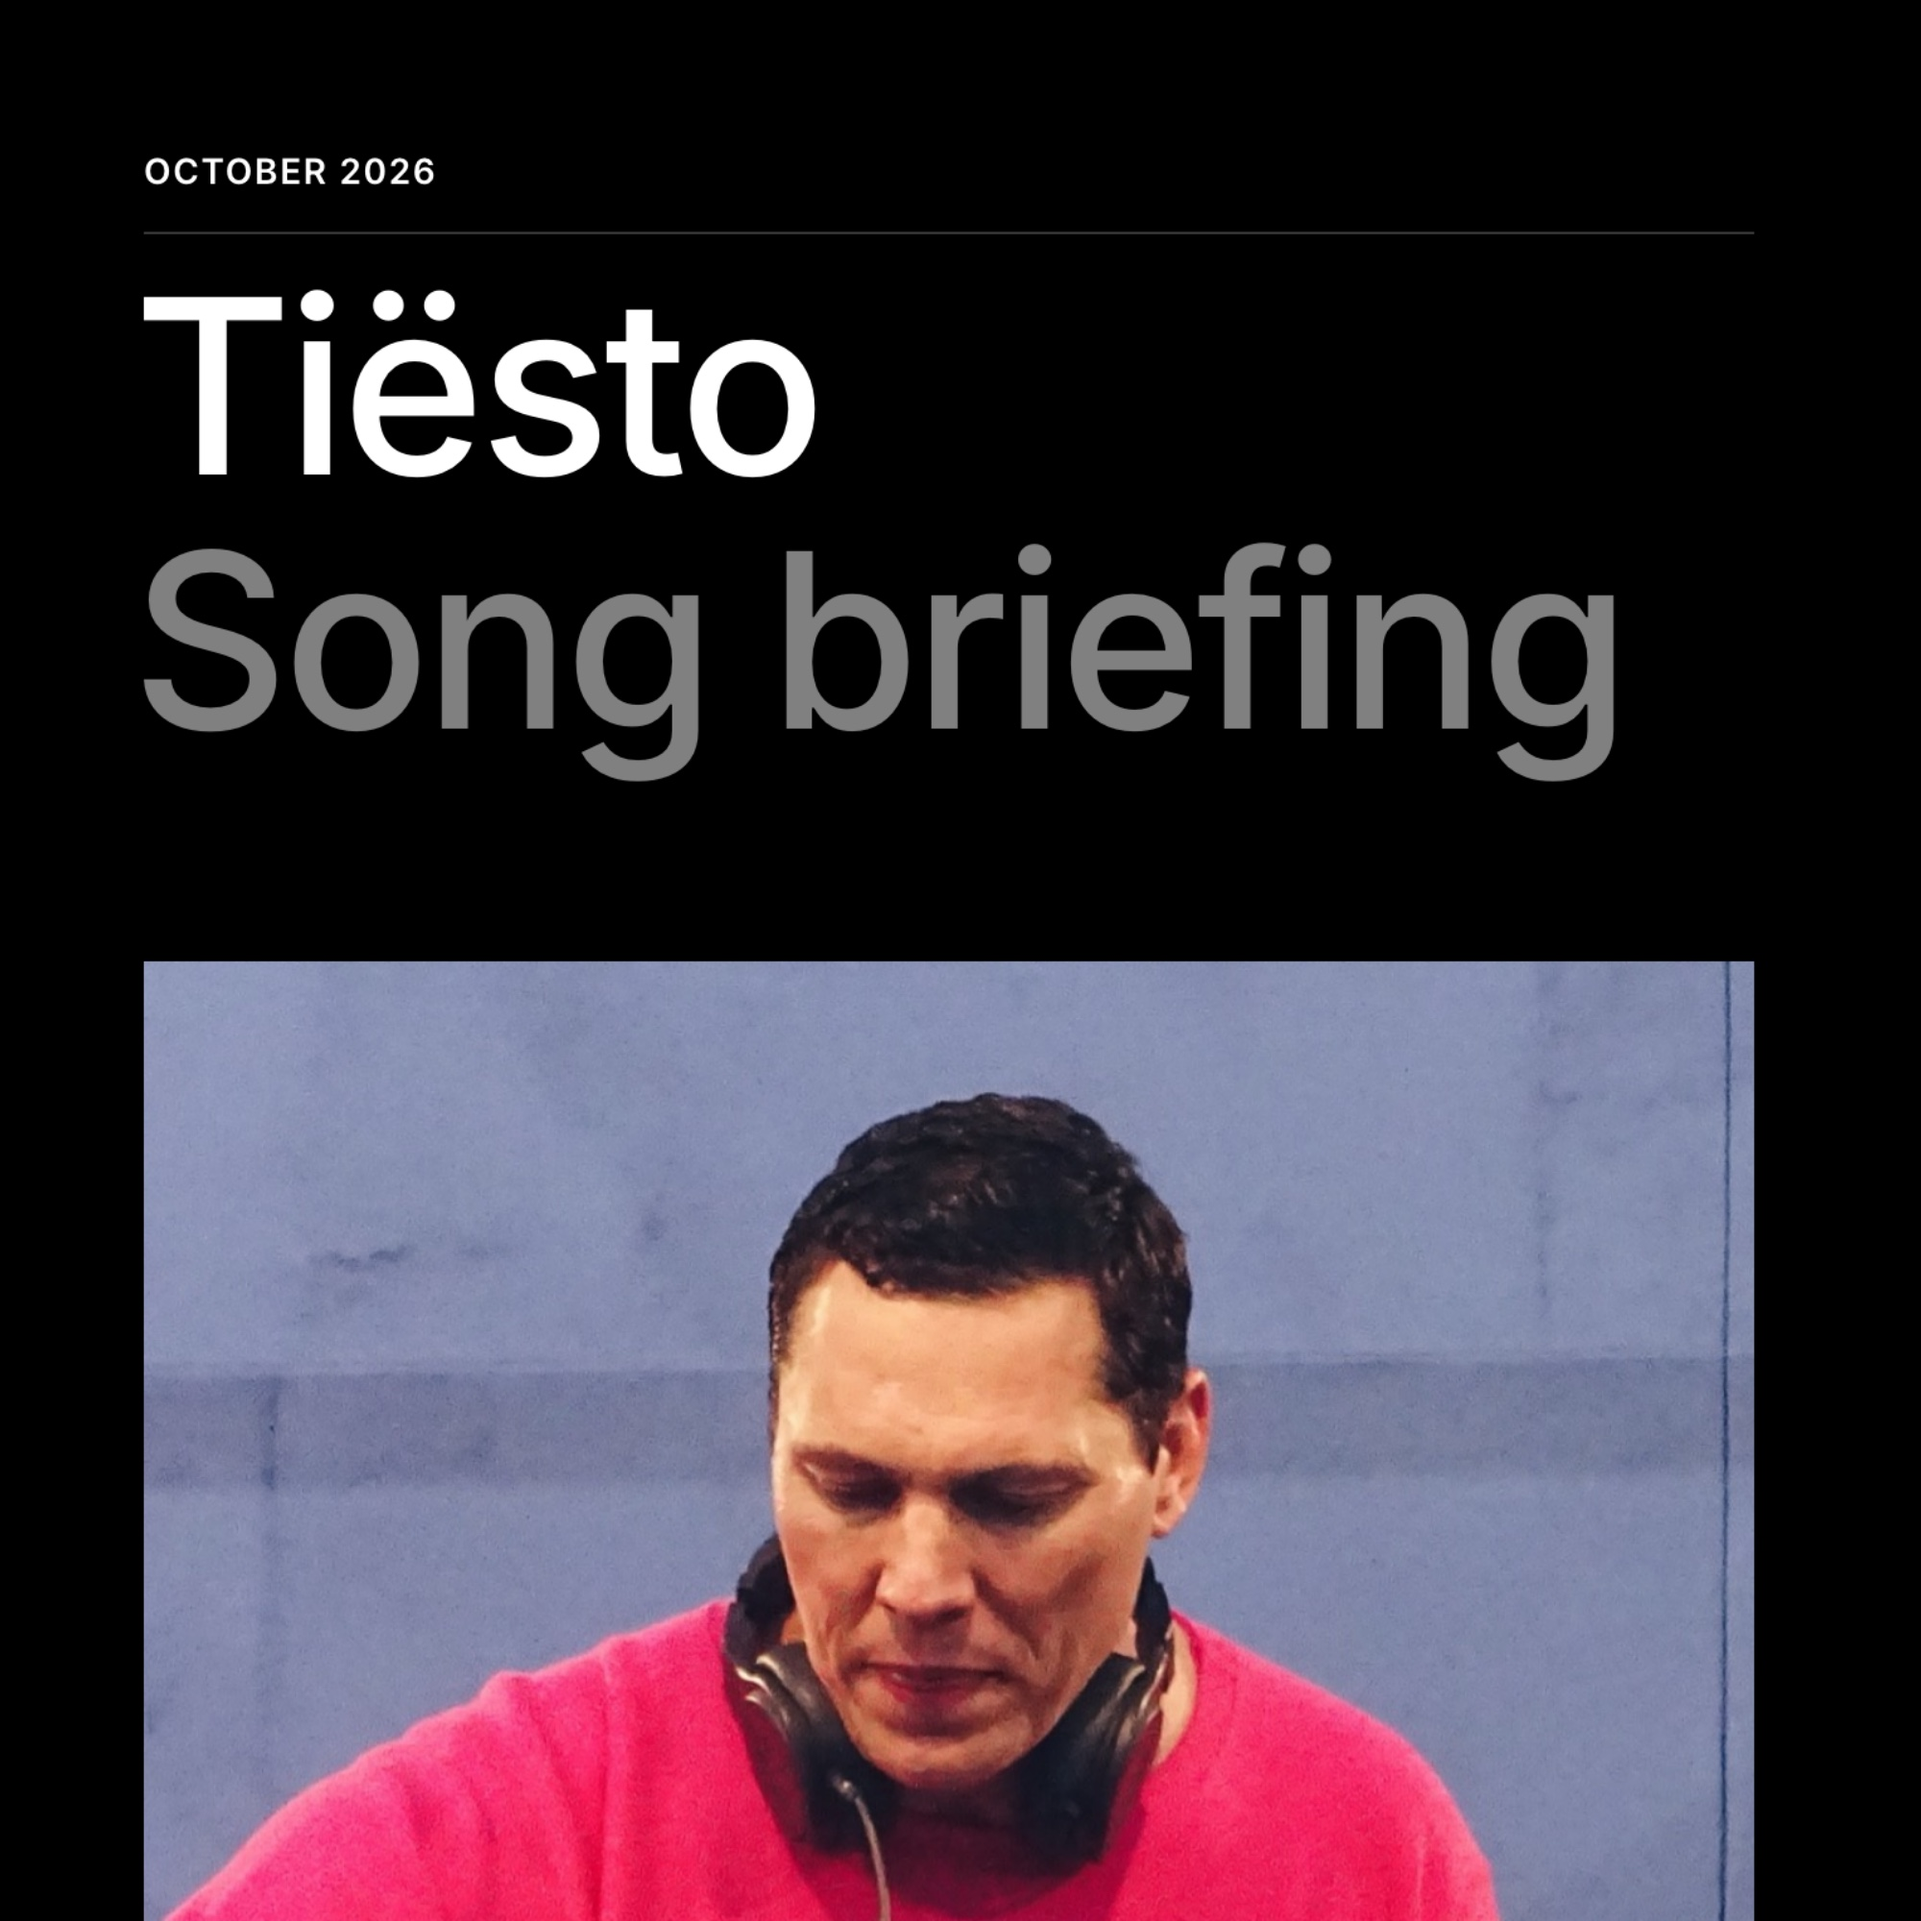
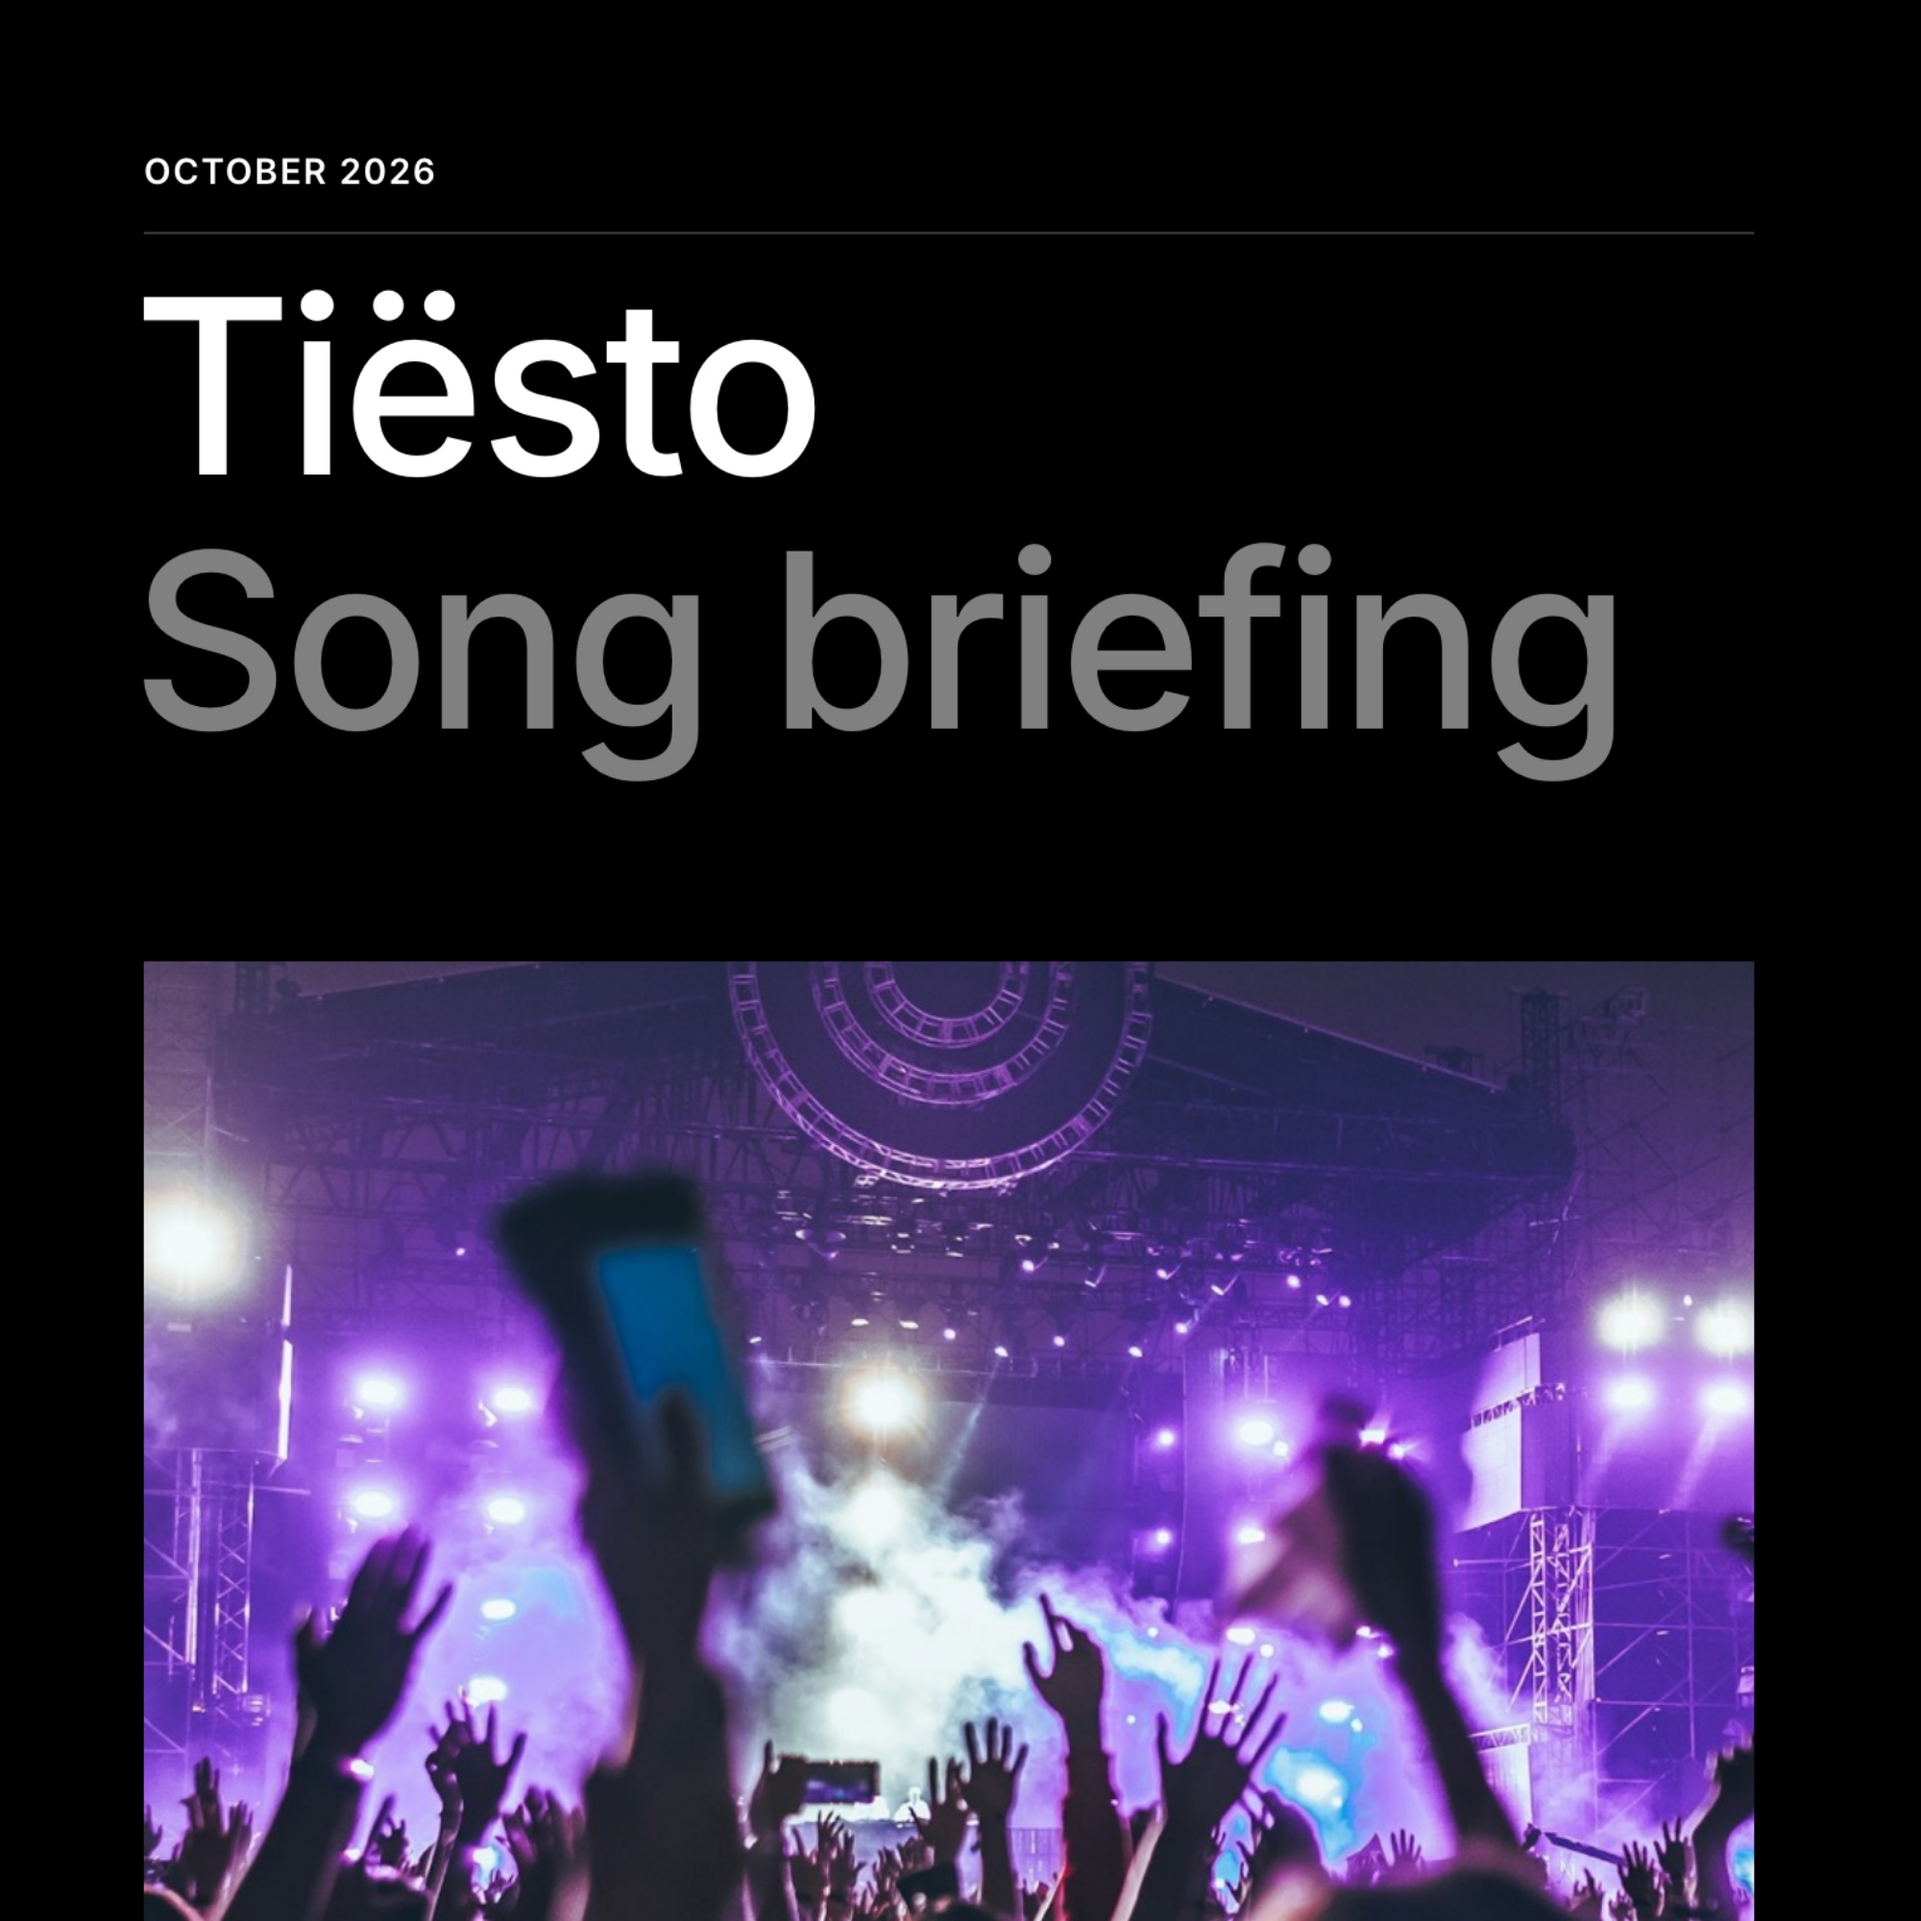
Song Briefing thumbnail: a concert crowd instead of the DJ photo
Photo by Hanny Naibaho on Unsplash.

diff --git a/index.html b/index.html
@@ -239,7 +239,7 @@
           </a>
         </div>
 
-        <!-- thumbnail photo: "Tiësto @ Airbeat One 2017" by Julia Keiser, CC BY-SA 4.0, via Wikimedia Commons -->
+        <!-- thumbnail photo: concert crowd by Hanny Naibaho on Unsplash (Unsplash License) -->
         <div class="tile-wrap" data-tool="/song-briefing/">
           <a class="card" href="song-briefing/">
             <div class="card-image"><img src="song-briefing/thumbnail.jpg" alt=""></div>
